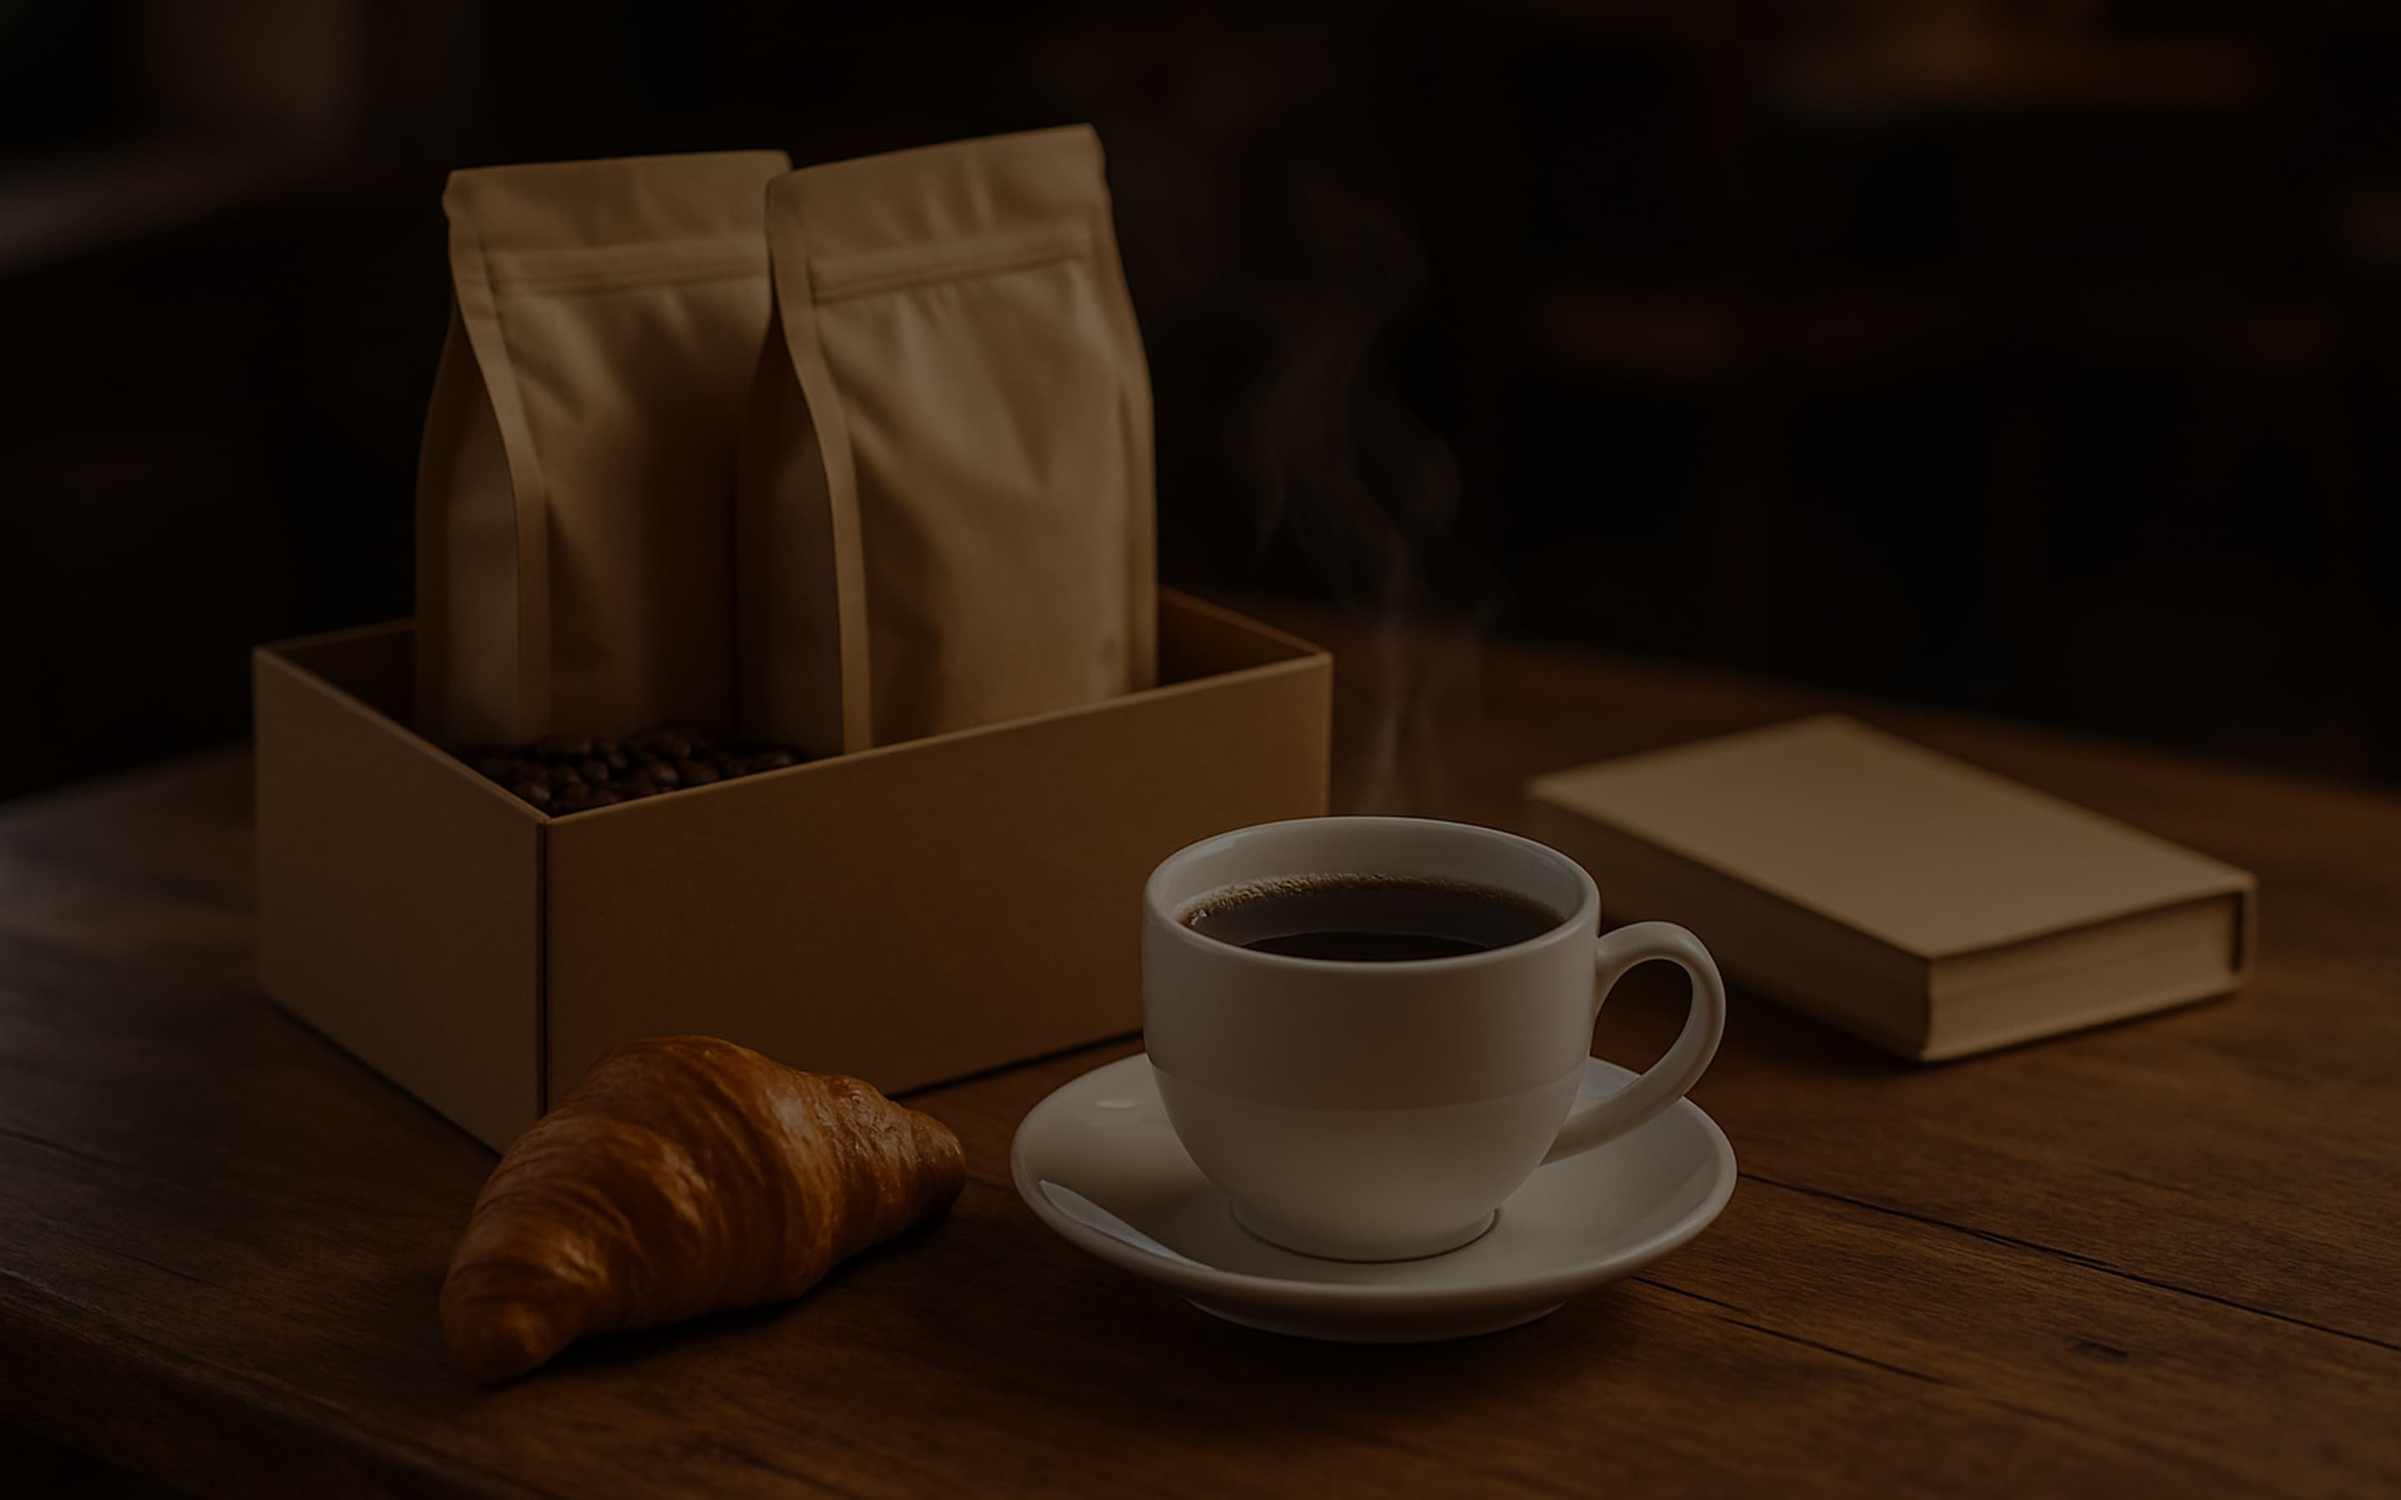
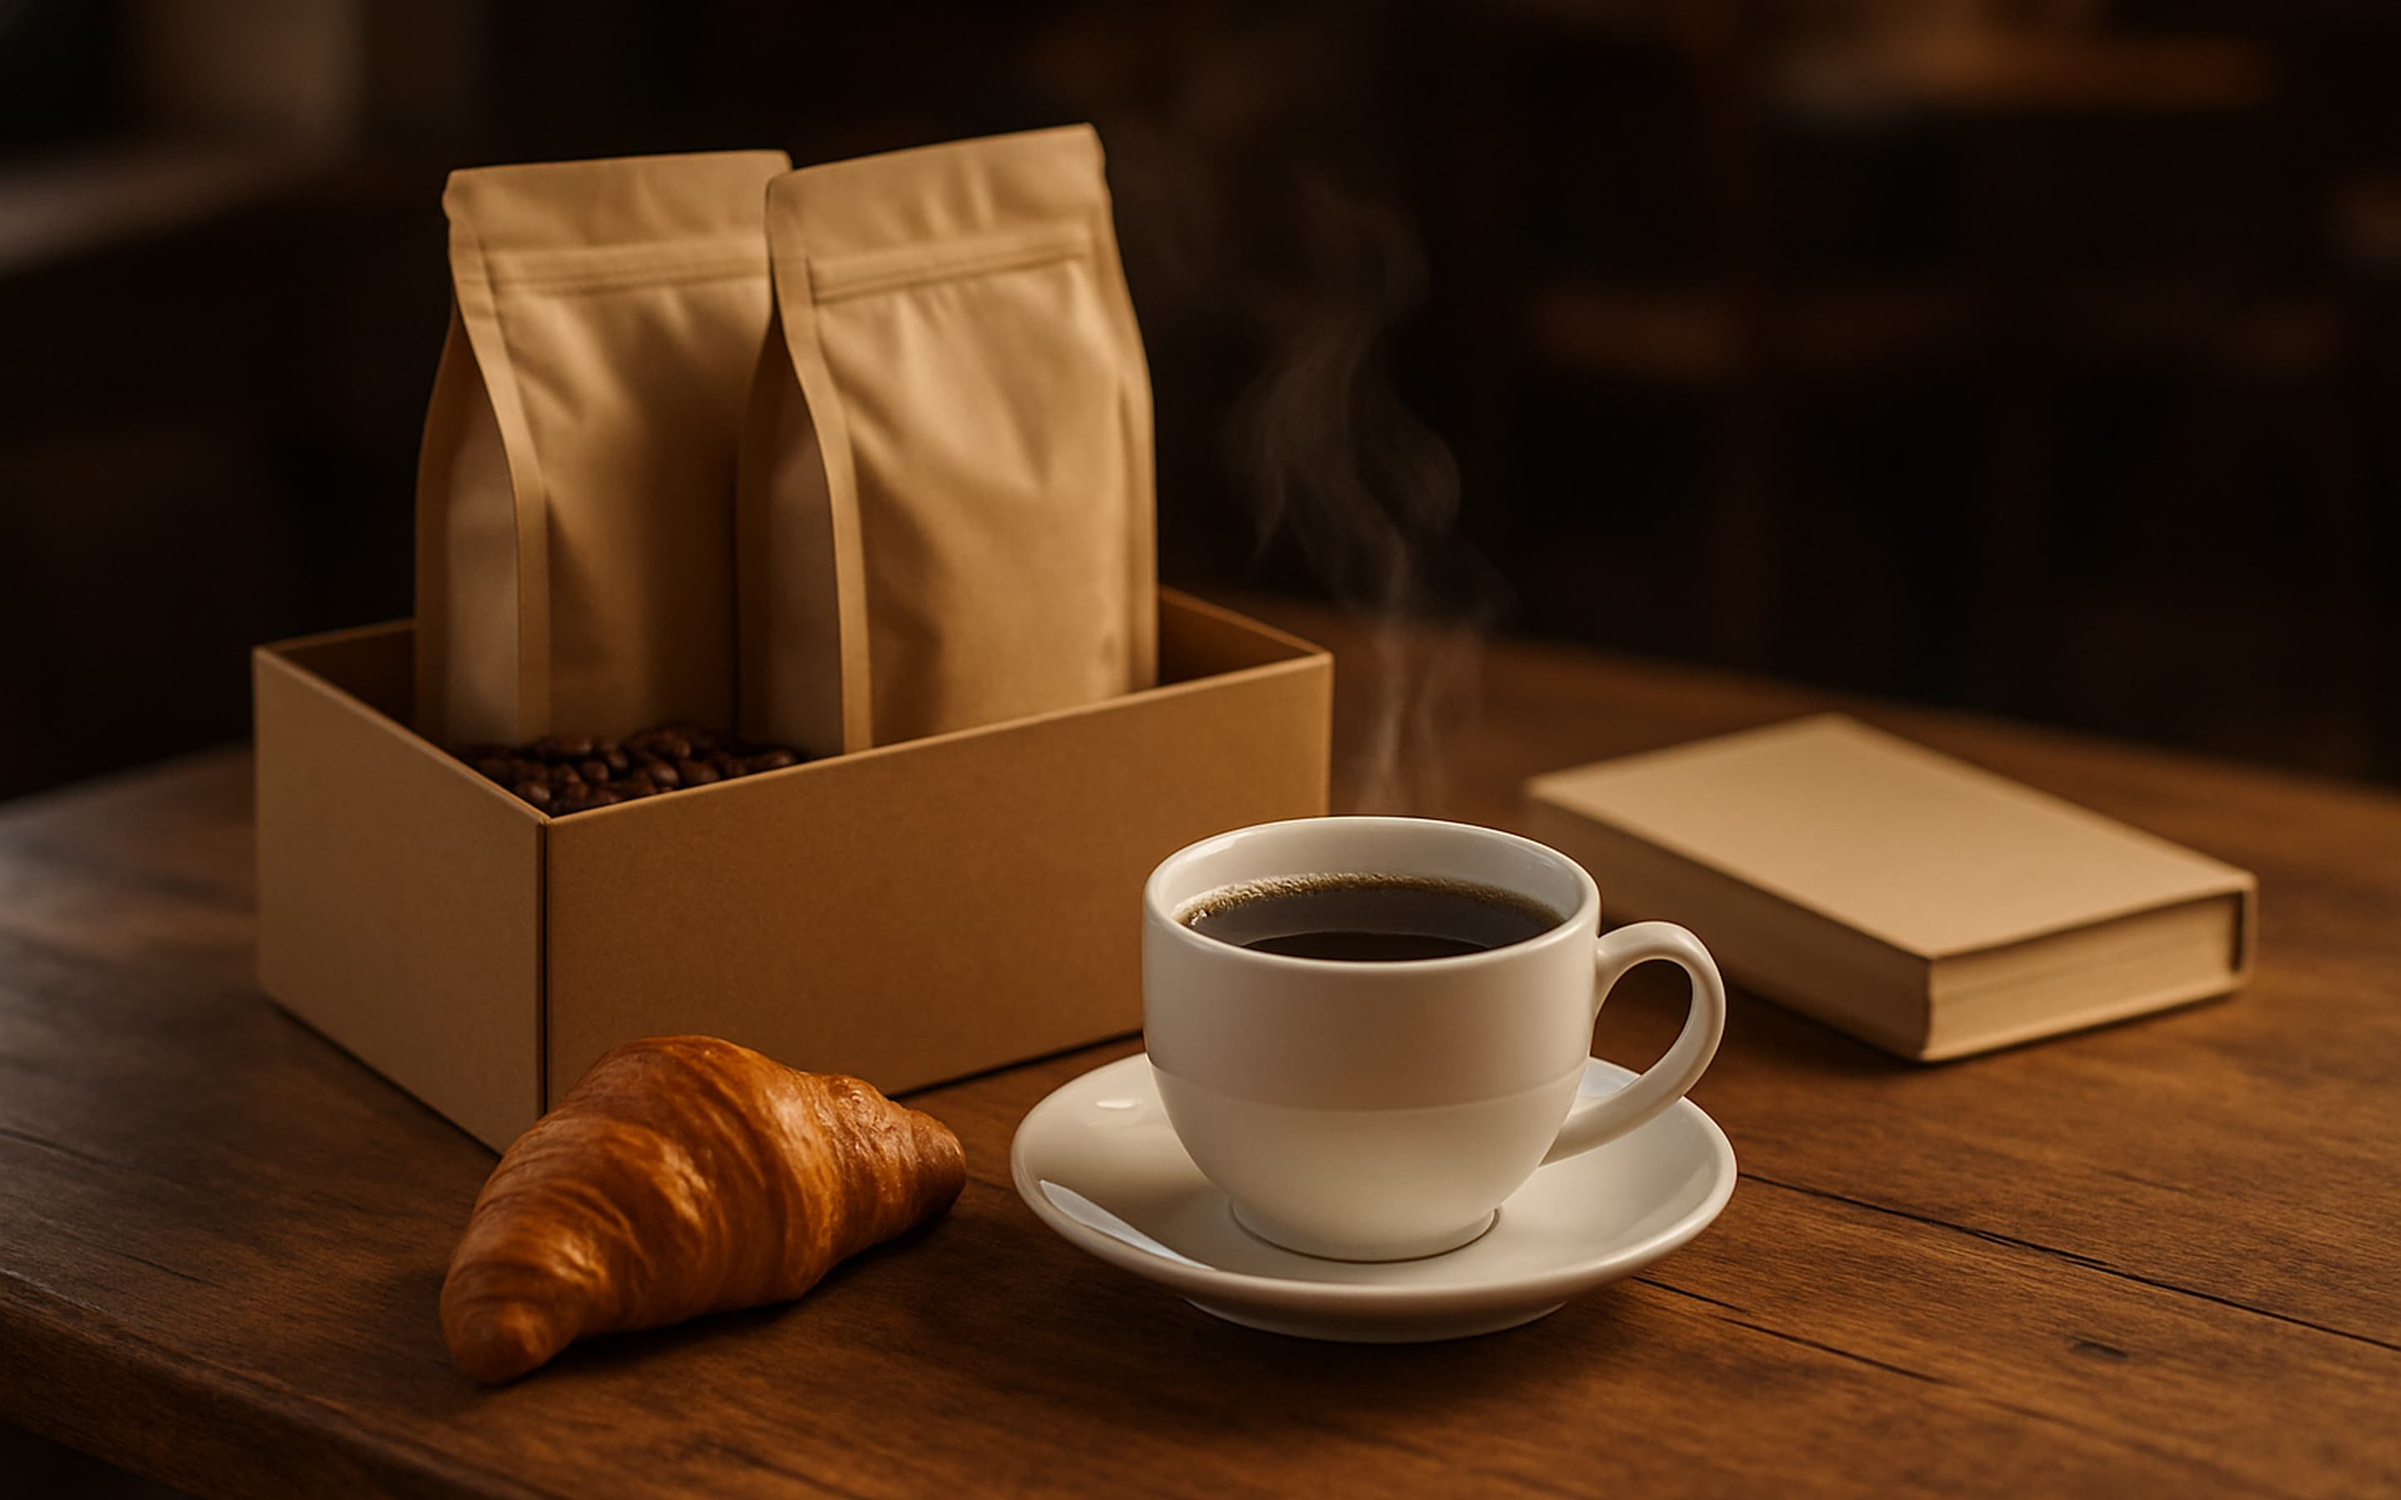
add adaptive

diff --git a/src/css/hero.css b/src/css/hero.css
@@ -1,6 +1,6 @@
 .hero-container {
-  background-image: linear-gradient(rgba(0 0 0 / 50%)),
-    url(../img/hero/hero-bg.jpg);
+  background-image: linear-gradient(rgba(0 0 0 / 50%), rgba(0 0 0 / 50%)),
+    url(../img/hero/heromobile@1x.jpg);
   overflow: hidden;
   object-fit: cover;
   padding-bottom: 109px;
@@ -10,10 +10,58 @@
   height: 644px;
 }
 
+@media only screen and (min-width: 320px) and (max-width: 375) and (min-resolution: 192dpi) {
+  .hero-container {
+    background-image: linear-gradient(rgba(0 0 0 / 50%), rgba(0 0 0 / 50%)),
+      url(../img/hero/heromobile@2x.jpg);
+  }
+}
+
+@media only screen and (min-width: 768px) {
+  .hero-container {
+    background-image: linear-gradient(rgba(0 0 0 / 50%), rgba(0 0 0 / 50%)),
+      url(../img/hero/herotablet@1x.jpg);
+    padding-top: 312px;
+    padding-bottom: 312px;
+    min-height: 900px;
+  }
+}
+
+@media only screen and (min-width: 768px) and (min-resolution: 192dpi) {
+  .hero-container {
+    background-image: linear-gradient(rgba(0 0 0 / 50%), rgba(0 0 0 / 50%)),
+      url(../img/hero/herotablet@2x.jpg);
+  }
+}
+
+@media only screen and (min-width: 1440px) {
+  .hero-container {
+    background-image: linear-gradient(rgba(0 0 0 / 50%), rgba(0 0 0 / 50%)),
+      url(../img/hero/herodesktop@1x.jpg);
+    padding-top: 259px;
+    padding-bottom: 259px;
+    height: 382px;
+  }
+}
+
 .hero-container .container {
   max-width: 320px;
   padding-left: 32px;
   padding-right: 32px;
+}
+
+@media only screen and (min-width: 768px) {
+  .hero-container .container {
+    max-width: 768px;
+  }
+}
+
+@media only screen and (min-width: 1440px) {
+  .hero-container .container {
+    max-width: 1440px;
+    padding-left: 64px;
+    padding-right: 64px;
+  }
 }
 
 .hero-name {
@@ -24,11 +72,34 @@
   color: #fff;
 }
 
+@media only screen and (min-width: 768px) {
+  .hero-name {
+    width: 560px;
+    height: 96px;
+  }
+}
+
+@media only screen and (min-width: 1440px) {
+  .hero-name {
+    height: 201px;
+    font-size: 56px;
+    width: 585px;
+  }
+}
+
 .hero-text {
   font-size: 18px;
+  line-height: 1.5;
   color: #fff;
   margin-top: 24px;
   width: 256px;
+}
+
+@media only screen and (min-width: 768px) {
+  .hero-text {
+    width: 560px;
+    height: 81px;
+  }
 }
 
 /* Кнопка */
